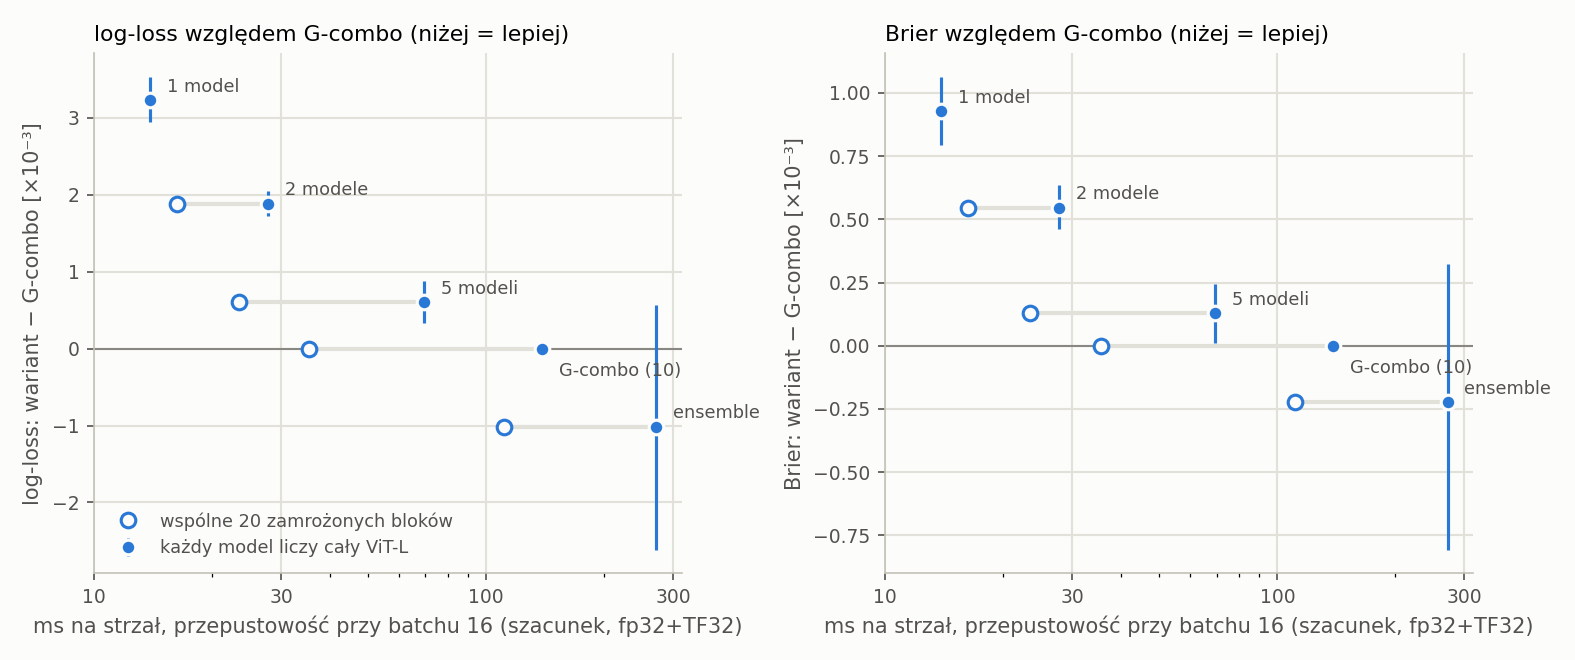
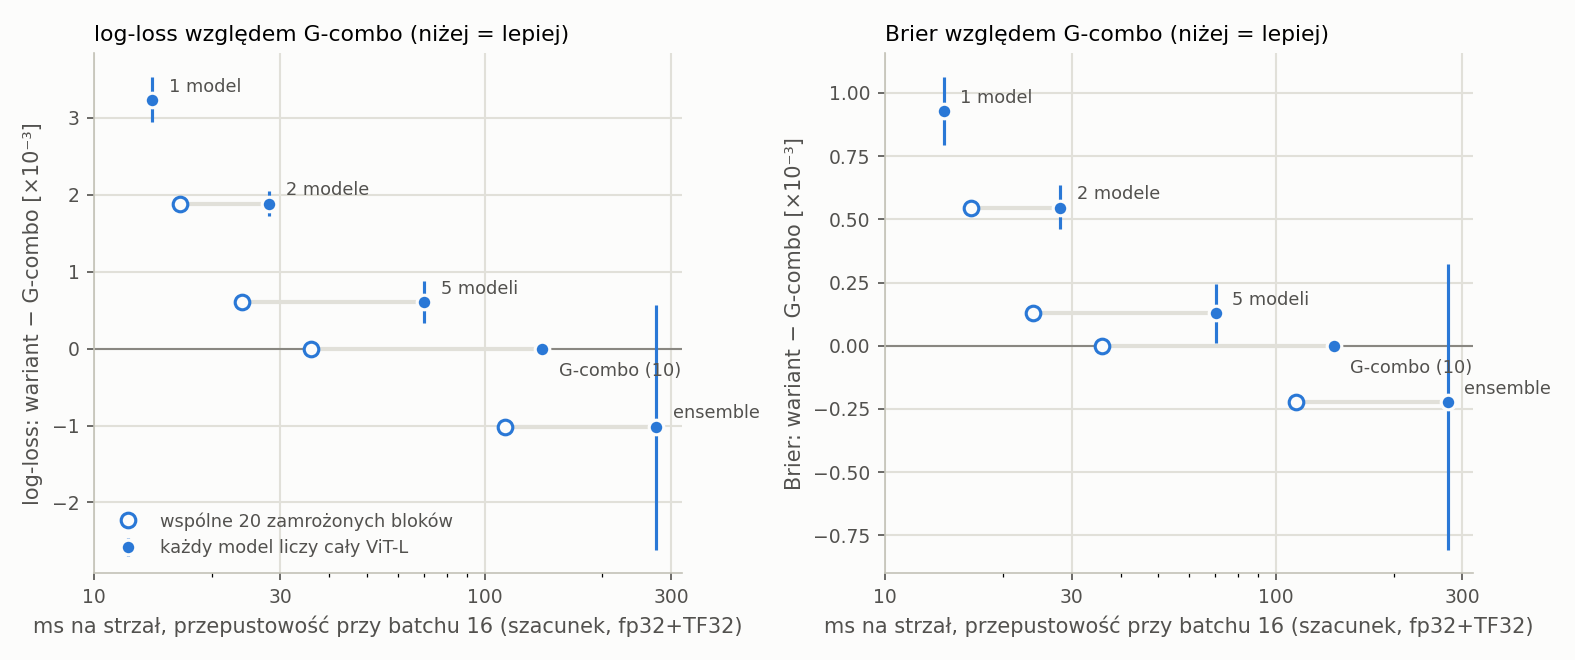
xg-poc: point-1 report timing re-measured with one boundary, batch-1 latency (xg-credibility 02)

diff --git a/experiments/claude_fable/results_reports/ensemble_vs_g_2026-10/REPORT.md b/experiments/claude_fable/results_reports/ensemble_vs_g_2026-10/REPORT.md
@@ -35,8 +35,8 @@ rundach (audyt z 7.09), więc wszystkie liczby tutaj są rozwojowe.
    instancji z 5 modelami traci względem G-combo 0.0006 log-loss [0.0003; 0.0009]. Przedział
    każdej z tych dwóch instancji osobno obejmuje zero.
 4. **Koszt to na razie szacunek przepustowości,** nie zmierzona latencja wdrożenia. Przy
-   batchu 16 i losowych wagach G-combo ze wspólnym zamrożonym trzonem liczy ok. 35 ms na
-   strzał, ensemble 111–272 ms.
+   batchu 16 i losowych wagach G-combo ze wspólnym zamrożonym trzonem liczy ok. 35.9 ms na
+   strzał, ensemble 112.6–275.2 ms. Przy batchu 1 (latencja) to 47.5 ms wobec 133.1–328.3 ms.
 
 **Rekomendacja:** modelem docelowym zostaje G-combo bez stacku. ConvNeXt, G-combo-mix i GBM
 z torem pozycyjnym wypadają. Powód: nie wykazaliśmy, że dają cokolwiek, a ewentualny zysk
@@ -96,7 +96,7 @@ Punkty odniesienia są niezależne od porównania ensemble'u z G-combo:
 - **Przewaga nad stałą prognozą.** Granica to mniej niż 4.5% tego, co G-combo zyskuje nad
   przewidywaniem średniej częstości goli.
 - **Koszt.** Ensemble potrzebuje 15 przebiegów ViT-L, 5 ConvNeXt i toru pozycyjnego. Szacunek
-  przepustowości to 111–272 ms na strzał wobec 35 ms dla G-combo. Szczegóły w sekcji 3.
+  przepustowości to 112.6–275.2 ms na strzał wobec 35.9 ms dla G-combo. Szczegóły w sekcji 3.
 
 ## 2. Kalibracja
 
@@ -223,10 +223,10 @@ modelami i obu wariantów z 5 modelami. Wyraźną stratę widać głównie dla f
 
 | Konfiguracja | przebiegi ViT-L | ms/strzał, pełne / wspólny trzon | redukcja log-loss [95% CI] | jako % przewagi nad stałą | ΔAUC [95% CI] | redukcja Briera ×10⁻³ [95% CI] | log-loss instancji |
 |---|---|---|---|---|---|---|---|
-| 1 model (10 instancji) | 1 | 13.9 / 13.9 | +0.0032 [+0.0029; +0.0035] | 4.8% [4.2; 5.7] | +0.0069 [+0.0057; +0.0082] | +0.93 [+0.80; +1.06] | 0.3252–0.3325 |
-| 2 modele, 1 fold (5) | 2 | 27.8 / 16.3 | +0.0019 [+0.0017; +0.0021] | 2.8% [2.3; 3.5] | +0.0044 [+0.0034; +0.0054] | +0.55 [+0.46; +0.64] | 0.3242–0.3304 |
-| 5 foldów, 1 seed (2) | 5 | 69.5 / 23.5 | +0.0006 [+0.0003; +0.0009] | 0.9% [0.6; 1.2] | +0.0003 [−0.0001; +0.0007] | +0.13 [+0.01; +0.24] | 0.3245–0.3251 |
-| **G-combo** | 10 | 138.9 / 35.4 | odniesienie | | | | 0.3242 |
+| 1 model (10 instancji) | 1 | 14.1 / 14.2 | +0.0032 [+0.0029; +0.0035] | 4.8% [4.2; 5.7] | +0.0069 [+0.0057; +0.0082] | +0.93 [+0.80; +1.06] | 0.3252–0.3325 |
+| 2 modele, 1 fold (5) | 2 | 28.1 / 16.6 | +0.0019 [+0.0017; +0.0021] | 2.8% [2.3; 3.5] | +0.0044 [+0.0034; +0.0054] | +0.55 [+0.46; +0.64] | 0.3242–0.3304 |
+| 5 foldów, 1 seed (2) | 5 | 70.0 / 23.9 | +0.0006 [+0.0003; +0.0009] | 0.9% [0.6; 1.2] | +0.0003 [−0.0001; +0.0007] | +0.13 [+0.01; +0.24] | 0.3245–0.3251 |
+| **G-combo** | 10 | 140.4 / 35.9 | odniesienie | | | | 0.3242 |
 
 Te przedziały opisują średnią wyników tych konkretnych zapisanych instancji na losowanych
 meczach. Nie obejmują zmienności treningu, seeda ani podziału na foldy, więc nie mówią, ile
@@ -238,7 +238,7 @@ wszystkich 400 meczach nie trenowaliśmy.
 
 **5 czy 10 modeli.** Średnia dwóch instancji z 5 modelami traci względem G-combo 0.0006
 log-loss, czyli 0.9% przewagi nad stałą prognozą. Przedział każdej z nich osobno obejmuje zero.
-Według szacunku przepustowości 5 modeli kosztuje 23.5 ms zamiast 35.4 ms. Zostajemy przy 10, bo
+Według szacunku przepustowości 5 modeli kosztuje 23.9 ms zamiast 35.9 ms. Zostajemy przy 10, bo
 czas nie jest teraz wąskim gardłem. Gdy będzie, 5 modeli to rozsądny wybór. Dane nie
 rozstrzygają między nimi.
 
@@ -251,23 +251,20 @@ Czasy w tabeli i na wykresie to szacunek kosztu obliczeń, nie latencja wdrożon
   całego G-combo ze wspólnym trzonem.
 - **Przepustowość, nie latencja.** Czasy pochodzą z batcha 16 podzielonego przez 16. „fp32”
   oznacza fp32 z włączonym TF32. Karta to RTX 4070 Ti SUPER.
-- **Pierwszy pomiar mnożył czasy fragmentów.** 35 ms to 11.5 ms trzonu plus 10 × 2.4 ms
-  końcówki, a nie pomiar całego potoku.
-- **Niespójna granica pomiaru toru pozycyjnego.** 57 ms toru GBM obejmuje odczyt klatek
-  zapasowych −400/−800 ms (średnio 0.91 dodatkowego wywołania na strzał), ale nie odczyt klatki
-  podstawowej. Tor ViT nie obejmował przygotowania obrazu.
+- **Jedna granica pomiaru.** Na każdym torze mierzymy odcinek od zdekodowanej klatki do
+  wyniku, z przygotowaniem obrazu. Dekodowanie, także klatek zapasowych −400/−800 ms (średnio
+  0.91 dodatkowego wywołania na strzał), leży poza pomiarem. Tor pozycyjny z GBM wychodzi
+  54.7 ms (mediana 57.2 ms).
 
 **Wspólny trzon.** W każdym modelu foldowym uczyły się tylko 4 ostatnie bloki, końcowa
 normalizacja i głowa. Pierwsze 20 bloków DINOv2-L, z `patch_embed` i `pos_embed`, jest
 zamrożone, a EMA obejmuje tylko parametry trenowalne. Te bloki można więc policzyć raz na
 klatkę. To wynika z kodu treningu. Obecny kod inferencji jeszcze tego nie robi.
 
-`scripts/bench_inference.py` jest już poprawiony. Wszystkie klatki, także zapasowe, są
-dekodowane przed pomiarem. Mierzony odcinek na każdym torze biegnie od zdekodowanej klatki do
-wyniku i obejmuje przygotowanie obrazu. Każda konfiguracja jest mierzona w całości, z 15
-osobnymi końcówkami. Przepustowość przy batchu 16 i latencję przy batchu 1 skrypt raportuje
-osobno. **Ponowny pomiar czeka**, bo GPU jest zajęte treningiem. Do tego czasu liczby pochodzą
-z pierwszego pomiaru.
+Każda konfiguracja jest mierzona w całości, z 15 osobnymi końcówkami. Przepustowość przy
+batchu 16 i latencję przy batchu 1 raportujemy osobno. Przy batchu 1 G-combo ze wspólnym
+trzonem potrzebuje 47.5 ms na strzał (bez współdzielenia 173.8 ms), ensemble 133.1–328.3 ms.
+Pomiar z 2026-10-09, GPU bez innych procesów obliczeniowych.
 
 ## 4. Podgrupy (eksploracyjnie)
 
@@ -308,8 +305,8 @@ pokazuje przewagi ensemble'u w log-lossie.
 - Krzywa równoważności używa percentylowego bootstrapu ze 100 meczów. Najmniejszy margines
   zależy od siatki co 0.0001 i od szumu Monte Carlo: przy innych seedach bootstrapu przesuwa się
   o jeden krok siatki.
-- Czasy to szacunek przepustowości z losowymi wagami na jednej karcie. Latencja przy batchu 1
-  czeka na ponowny pomiar.
+- Czasy to szacunek z losowymi wagami na jednej karcie. Przepustowość (batch 16) i latencja
+  (batch 1) są osobnymi pomiarami.
 
 ## 6. Szkic odpowiedzi dla recenzenta
 
@@ -332,9 +329,9 @@ pokazuje przewagi ensemble'u w log-lossie.
 > z 10 zapisanych pojedynczych modeli. Dla 7 z 10 z nich osobny przedział obejmuje zero, a
 > część różnicy wynika z Platta dopasowanego na większej próbie. Wybór 10 zamiast 5 modeli
 > (redukcja 0.0006 [0.0003; 0.0009] względem średniej dwóch instancji) traktujemy jako
-> kompromis kosztu. Czas to na razie szacunek przepustowości przy batchu 16 z losowymi wagami:
-> ok. 35 ms na strzał przy wspólnym zamrożonym trzonie wobec 111–272 ms dla ensemble'u.
-> Latencję pojedynczego strzału zmierzymy osobno.
+> kompromis kosztu. Czas to szacunek przepustowości przy batchu 16 z losowymi wagami:
+> ok. 35.9 ms na strzał przy wspólnym zamrożonym trzonie wobec 112.6–275.2 ms dla ensemble'u.
+> Latencja pojedynczego strzału (batch 1) to 47.5 ms wobec 133.1–328.3 ms.
 >
 > Rekalibracja dopasowana na połowie meczów testu poprawia drugą połowę średnio o 0.0002
 > log-lossu, a w co trzecim podziale szkodzi. Kalibrację poprawimy na świeżych meczach
